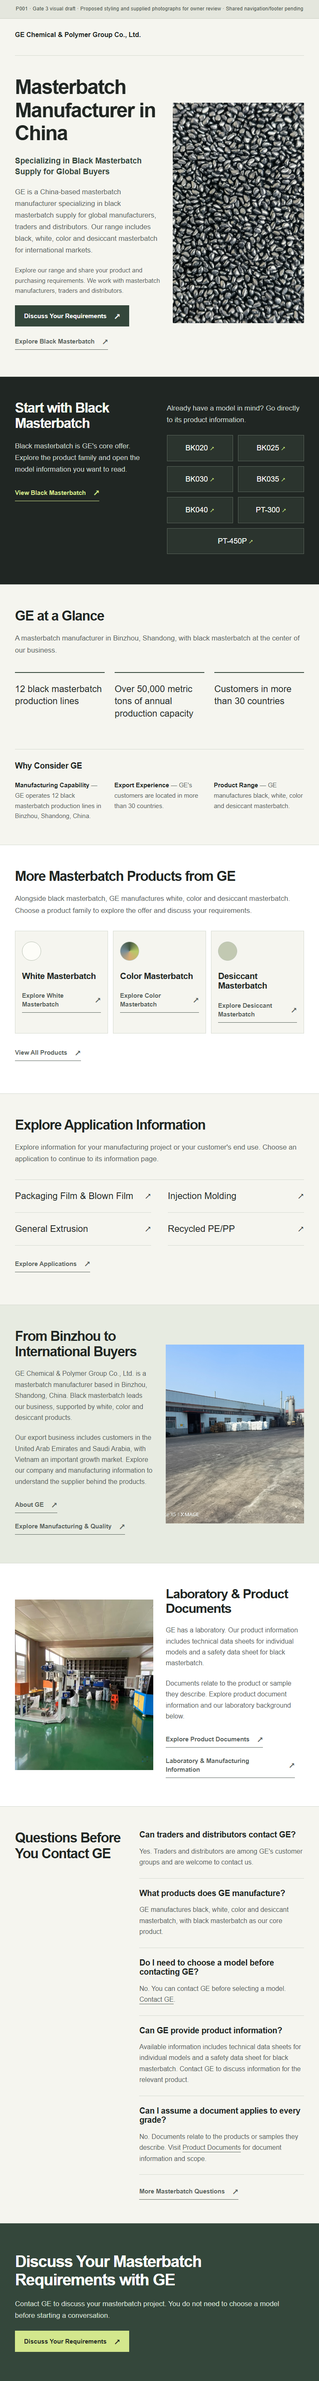
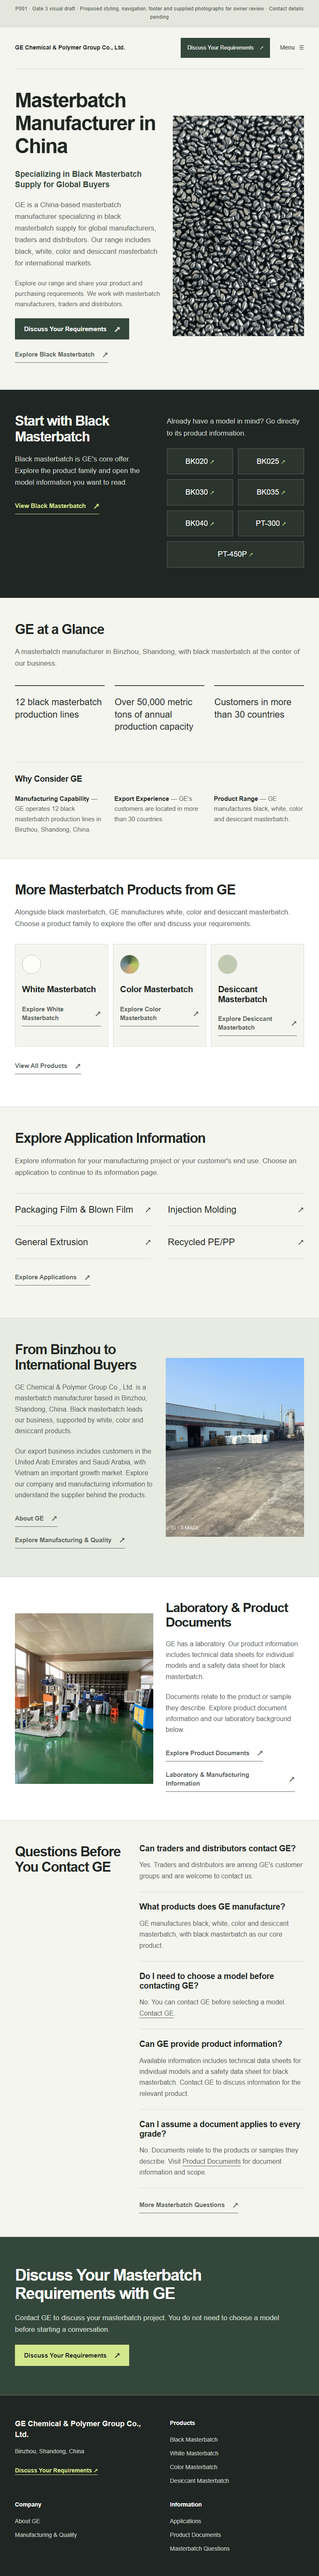
Complete P001 navigation and footer visual proposal

diff --git a/planning/visuals/P001/homepage-visual.html b/planning/visuals/P001/homepage-visual.html
@@ -2,8 +2,12 @@
 :root{--ink:#202623;--muted:#59645d;--paper:#f5f5ef;--line:#d5dad1;--accent:#d3e78d;--green:#34473b}*{box-sizing:border-box}body{margin:0;background:var(--paper);font-family:Arial,Helvetica,sans-serif;color:var(--ink);font-size:17px;line-height:1.65}a{color:inherit;text-underline-offset:5px}a:focus-visible{outline:3px solid #668821;outline-offset:5px}.draft-note{padding:12px 24px;background:#e4e6dd;color:#454f46;font-size:12px;letter-spacing:.025em;text-align:center;border-bottom:1px solid #ccd0c4}.container{max-width:1280px;margin:auto;padding:80px 64px}.module{border-bottom:1px solid var(--line)}h1,h2,h3,p,ul,figure{margin-top:0}h1,h2,h3{line-height:1.13;font-weight:600;letter-spacing:-.04em}h1{font-size:66px;margin-bottom:26px;max-width:660px}h2{font-size:40px;margin-bottom:22px;max-width:660px}h3{font-size:22px;margin-bottom:16px;letter-spacing:-.025em}p{margin-bottom:22px;color:var(--muted)}ul{padding:0;list-style:none}figure{margin:0;overflow:hidden;background:#d7ddd5}img{width:100%;height:100%;object-fit:cover;display:block}.section-intro{max-width:760px}p.action>a{display:inline-flex;align-items:center;gap:18px;font-size:15px;line-height:1.4;font-weight:600;text-decoration:none;border-bottom:1px solid currentColor;padding:9px 0}p.action>a:after{content:'↗';font-size:20px;line-height:1}.identity{padding-bottom:36px;border-bottom:1px solid var(--line);margin-bottom:48px}.identity p{margin:0;color:var(--ink);font-size:16px}.m1 .container{padding-top:26px;padding-bottom:64px}.hero-grid{display:grid;grid-template-columns:1.12fr .88fr;gap:56px;align-items:center}.hero-grid figure{height:540px;border-radius:2px}.hero-copy>p:nth-of-type(1){font-size:21px;line-height:1.35;color:var(--green);margin-bottom:22px}.hero-copy>p:nth-of-type(2){font-size:17px}.hero-copy>p:nth-of-type(3){font-size:15px;max-width:510px}.hero-copy>p:nth-of-type(4)>a,.m9 a{padding:15px 22px;background:var(--green);color:white;border:0}.hero-copy>p:nth-of-type(4){display:inline-block;margin:0 18px 0 0}.hero-copy>p:nth-of-type(5){display:inline-block;margin:16px 0 0}.m2{background:var(--ink);color:#fafbf6}.m2 p{color:#cbd4cc}.black-grid{display:grid;grid-template-columns:1fr 1fr;gap:80px}.black-intro p>a{color:var(--accent)}.model-entries{padding-top:6px}.model-entries ul{display:grid;grid-template-columns:repeat(3,1fr);gap:12px}.model-entries li a{display:block;padding:19px 12px;border:1px solid #5b665c;background:#2b342e;text-decoration:none;font-size:18px;line-height:1.25;text-align:center}.model-entries li:last-child{grid-column:span 2}.model-entries li a:after{content:' ↗';color:var(--accent);font-size:15px}.stats ul{display:grid;grid-template-columns:repeat(3,1fr);gap:28px;margin:38px 0 46px}.stats li{border-top:2px solid var(--green);padding:24px 16px 24px 0;font-size:25px;line-height:1.35}.stats strong{font-weight:500}.cooperation{border-top:1px solid var(--line);padding-top:28px}.cooperation h3{font-size:20px;margin-bottom:24px}.reasons{display:grid;grid-template-columns:repeat(3,1fr);gap:28px}.reasons p{font-size:15px;margin-bottom:0}.reasons strong{color:var(--ink)}.m4{background:#fff}.portfolio{display:grid;grid-template-columns:repeat(3,1fr);gap:20px;margin:34px 0 26px}.product-card{padding:30px 24px;border:1px solid var(--line);background:var(--paper);min-height:215px}.product-card p{margin:0}.product-card a{font-size:14px}.product-mark{width:46px;height:46px;border:1px solid #bac2b4;display:block;border-radius:50%;margin-bottom:25px;background:#fdfdf8}.tone1 .product-mark{background:conic-gradient(#435640,#b7c968,#d5aa74,#748c98,#435640)}.tone2 .product-mark{background:#c2c9b2}.m5 .section-intro{max-width:none}.m5 p{max-width:760px}.m5 ul{display:grid;grid-template-columns:repeat(2,1fr);border-top:1px solid var(--line);gap:0 40px;margin:35px 0 24px}.m5 li{border-bottom:1px solid var(--line)}.m5 li a{display:flex;justify-content:space-between;padding:24px 0;text-decoration:none;font-size:22px;line-height:1.35}.m5 li a:after{content:'↗';margin-left:18px}.m6{background:#e7ebe1}.company-grid,.documents-grid{display:grid;grid-template-columns:1fr 1fr;gap:64px;align-items:center}.company-grid figure{height:390px}.company-grid p,.documents-grid p{font-size:16px}.company-grid p:has(>a),.documents-grid p:has(>a){display:inline-block;margin-right:22px;margin-bottom:12px}.documents-grid figure{height:380px}.documents-grid h2{font-size:36px}.m7{background:#fff}.faq-grid{display:grid;grid-template-columns:.75fr 1.25fr;gap:70px}.faq-grid>h2{max-width:320px}.faq-item{padding:24px 0;border-bottom:1px solid var(--line)}.faq-item:first-child{padding-top:0}.faq-item h3{font-size:20px;letter-spacing:-.02em}.faq-item p{font-size:16px;margin:0}.faq-list>p{margin-top:20px;margin-bottom:0}.m9{background:var(--green);color:white;border:0}.m9 .container{padding-top:70px;padding-bottom:70px}.m9 h2{font-size:46px;max-width:720px}.m9 p{color:#d9e1d6;max-width:670px}.m9 a{background:var(--accent);color:var(--ink)}.m9 p:last-child{margin-bottom:0}
 @media(max-width:1000px){.container{padding:56px 36px}h1{font-size:49px}h2{font-size:33px}.hero-grid{gap:30px;grid-template-columns:1.05fr .95fr}.hero-grid figure{height:530px}.hero-copy>p:nth-of-type(1){font-size:19px}.black-grid{gap:35px}.model-entries ul{grid-template-columns:repeat(2,1fr)}.model-entries li:last-child{grid-column:span 2}.stats ul{gap:24px}.stats li{font-size:22px;padding-right:0}.reasons{gap:22px}.portfolio{gap:12px}.product-card{padding:25px 16px}.product-card h3{font-size:21px}.product-card a{font-size:13px}.company-grid,.documents-grid{gap:30px}.company-grid figure{height:430px}.documents-grid figure{height:410px}.documents-grid h2{font-size:31px}.faq-grid{gap:35px;grid-template-columns:.8fr 1.2fr}.m9 h2{font-size:39px}}
 @media(max-width:600px){body{font-size:16px}.draft-note{padding:10px 20px;font-size:11px;text-align:left}.container{padding:44px 24px}.identity{padding-bottom:24px;margin-bottom:30px}.identity p{font-size:13px;line-height:1.5}.m1 .container{padding-top:20px;padding-bottom:36px}.hero-grid,.black-grid,.company-grid,.documents-grid,.faq-grid{grid-template-columns:1fr;gap:28px}h1{font-size:43px;line-height:1.07;margin-bottom:24px;letter-spacing:-.045em}h2{font-size:31px;margin-bottom:20px}.hero-copy>p:nth-of-type(1){font-size:19px}.hero-copy>p:nth-of-type(2){font-size:16px}.hero-copy>p:nth-of-type(3){font-size:15px}.hero-copy>p:nth-of-type(4),.hero-copy>p:nth-of-type(5){display:block;margin:0 0 14px}.hero-copy>p:nth-of-type(4)>a{justify-content:space-between;width:100%}.hero-grid figure{height:240px;object-position:50% 50%}.black-grid{gap:20px}.model-entries p{font-size:15px}.model-entries li a{padding:18px 8px;font-size:17px}.stats ul{grid-template-columns:1fr;gap:0;margin:24px 0 30px}.stats li{font-size:24px;padding:19px 0;border-top:1px solid var(--line)}.stats li:first-child{border-top:2px solid var(--green)}.reasons{grid-template-columns:1fr;gap:18px}.portfolio{grid-template-columns:1fr;gap:14px;margin:25px 0}.product-card{min-height:0;padding:22px;display:grid;grid-template-columns:46px 1fr;column-gap:20px;align-items:start}.product-mark{grid-row:span 2;margin:0}.product-card h3{font-size:23px;margin-bottom:10px}.product-card a{font-size:14px}.m5 ul{grid-template-columns:1fr;margin-top:25px}.m5 li a{font-size:21px;padding:21px 0}.company-grid figure{height:245px}.documents-grid figure{height:245px}.documents-grid>figure{order:2}.documents-grid h2{font-size:31px}.company-grid p:has(>a),.documents-grid p:has(>a){display:block;margin:0 0 12px}.faq-grid>h2{max-width:none;margin-bottom:0}.faq-item h3{font-size:20px}.faq-item p{font-size:16px}.m9 .container{padding:46px 24px}.m9 h2{font-size:34px}.m9 a{justify-content:space-between;width:100%}}
-.m9 p.action>a{padding:15px 22px;background:var(--accent);color:var(--ink);border:0}</style></head><body><aside class="draft-note">P001 · Gate 3 visual draft · Proposed styling and supplied photographs for owner review · Shared navigation/footer pending</aside><main><section class="module m1 " data-module="1"><div class="container"><header class="identity"><p><strong>GE Chemical &amp; Polymer Group Co., Ltd.</strong></p>
-</header><div class="hero-grid"><div class="hero-copy"><h1>Masterbatch Manufacturer in China</h1>
+.m9 p.action>a{padding:15px 22px;background:var(--accent);color:var(--ink);border:0}
+.identity{display:flex;align-items:center;gap:24px;position:relative;padding-bottom:26px;margin-bottom:48px}.identity>p{flex:1;max-width:270px;font-size:14px;line-height:1.4}.desktop-nav{display:flex;align-items:center;gap:22px;margin-left:auto}.desktop-nav>a{font-size:14px;line-height:1.4;white-space:nowrap;text-decoration:none}.desktop-nav>a:first-child{font-weight:700}.header-inquiry{display:flex;align-items:center;justify-content:space-between;gap:14px;background:var(--green);color:white;text-decoration:none;font-size:13px;line-height:1.4;padding:14px 16px;min-height:48px;white-space:nowrap}.mobile-menu{display:none}.site-footer{background:var(--ink);color:#f4f6ef;border-top:1px solid #677465}.site-footer .container{padding-top:55px;padding-bottom:55px}.footer-grid{display:grid;grid-template-columns:1.3fr 1fr 1fr 1fr;gap:36px}.footer-identity>p:first-child{font-size:18px;line-height:1.45;color:#f4f6ef;margin-bottom:16px;max-width:270px}.footer-identity>p{font-size:14px;color:#cbd4cc;margin-bottom:20px}.footer-identity>a{font-size:14px;font-weight:600;color:var(--accent)}.footer-title{font-size:14px;color:#fff;font-weight:700;margin-bottom:18px}.footer-column nav{display:flex;flex-direction:column;align-items:flex-start;gap:12px}.footer-column a{font-size:14px;line-height:1.5;color:#cbd4cc;text-decoration:none}.footer-column a:hover,.desktop-nav a:hover{text-decoration:underline}
+@media(max-width:1100px){.desktop-nav{display:none}.desktop-inquiry{margin-left:auto}.mobile-menu{display:block}.mobile-menu summary{display:flex;align-items:center;gap:10px;list-style:none;cursor:pointer;padding:12px 0;font-size:14px;min-height:48px}.mobile-menu summary::-webkit-details-marker{display:none}.mobile-menu nav{position:absolute;left:0;right:0;top:calc(100% - 1px);z-index:1;background:var(--paper);border:1px solid var(--line);padding:18px 22px;box-shadow:0 10px 18px #20262315}.mobile-menu nav>a:not(.header-inquiry){display:block;text-decoration:none;font-size:17px;line-height:1.4;padding:14px 0;border-bottom:1px solid var(--line)}.mobile-menu nav>a:first-child{font-weight:700}.mobile-menu nav>.header-inquiry{margin-top:18px}.footer-grid{grid-template-columns:1fr 1fr;gap:35px 50px}.footer-identity>p:first-child{max-width:320px}}
+@media(max-width:600px){.identity{gap:16px;padding-bottom:22px;margin-bottom:30px}.identity>p{font-size:13px;max-width:260px}.desktop-inquiry{display:none}.mobile-menu{margin-left:auto;flex-shrink:0}.mobile-menu summary{font-size:13px}.mobile-menu summary span{font-size:20px}.site-footer .container{padding-top:36px;padding-bottom:36px}.footer-grid{grid-template-columns:1fr;gap:28px}.footer-identity>p:first-child{font-size:20px;max-width:320px}.footer-column nav{gap:10px}.footer-title{font-size:16px;margin-bottom:12px}.footer-column a{font-size:15px}.mobile-menu nav{padding:14px 20px}.m9 p.action>a{padding:15px 22px}}
+</style></head><body><aside class="draft-note">P001 · Gate 3 visual draft · Proposed styling, navigation, footer and supplied photographs for owner review · Contact details pending</aside><main><section class="module m1 " data-module="1"><div class="container"><header class="identity"><p><strong>GE Chemical &amp; Polymer Group Co., Ltd.</strong></p>
+<nav class="desktop-nav" aria-label="Primary navigation" data-shared-copy><a href="/products/black-masterbatch">Black Masterbatch</a><a href="/products">Products</a><a href="/applications">Applications</a><a href="/about">About GE</a></nav><div class="desktop-inquiry" data-shared-copy><a class="header-inquiry" href="/rfq">Discuss Your Requirements <span aria-hidden="true">↗</span></a></div><details class="mobile-menu" data-shared-copy><summary>Menu <span aria-hidden="true">☰</span></summary><nav aria-label="Mobile navigation"><a href="/products/black-masterbatch">Black Masterbatch</a><a href="/products">Products</a><a href="/applications">Applications</a><a href="/about">About GE</a><a class="header-inquiry" href="/rfq">Discuss Your Requirements <span aria-hidden="true">↗</span></a></nav></details></header><div class="hero-grid"><div class="hero-copy"><h1>Masterbatch Manufacturer in China</h1>
 <p><strong>Specializing in Black Masterbatch Supply for Global Buyers</strong></p>
 <p>GE is a China-based masterbatch manufacturer specializing in black masterbatch supply for global manufacturers, traders and distributors. Our range includes black, white, color and desiccant masterbatch for international markets.</p>
 <p>Explore our range and share your product and purchasing requirements. We work with masterbatch manufacturers, traders and distributors.</p>
@@ -76,4 +80,5 @@
 </div></div></div></section><section class="module m9 " data-module="9"><div class="container"><h2>Discuss Your Masterbatch Requirements with GE</h2>
 <p>Contact GE to discuss your masterbatch project. You do not need to choose a model before starting a conversation.</p>
 <p class="action"><a href="/rfq">Discuss Your Requirements</a></p>
-</div></section></main></body></html>
+</div></section></main><footer class="site-footer" data-shared-copy><div class="container"><div class="footer-grid"><div class="footer-identity"><p><strong>GE Chemical &amp; Polymer Group Co., Ltd.</strong></p>
+<p>Binzhou, Shandong, China</p><a href="/rfq">Discuss Your Requirements <span aria-hidden="true">↗</span></a></div><div class="footer-column"><p class="footer-title">Products</p><nav aria-label="Products"><a href="/products/black-masterbatch">Black Masterbatch</a><a href="/products/white-masterbatch">White Masterbatch</a><a href="/products/color-masterbatch">Color Masterbatch</a><a href="/products/desiccant-defoaming-masterbatch">Desiccant Masterbatch</a></nav></div><div class="footer-column"><p class="footer-title">Company</p><nav aria-label="Company"><a href="/about">About GE</a><a href="/manufacturing-quality">Manufacturing & Quality</a></nav></div><div class="footer-column"><p class="footer-title">Information</p><nav aria-label="Information"><a href="/applications">Applications</a><a href="/documents">Product Documents</a><a href="/faq">Masterbatch Questions</a></nav></div></div></div></footer></body></html>

diff --git a/planning/pages/P001.md b/planning/pages/P001.md
@@ -574,4 +574,15 @@ Contact GE to discuss your masterbatch project. You do not need to choose a mode
 - Proposed appearance: charcoal/green, off-white surfaces and a pale green inquiry accent; plain text company identity, prominent black-granule photograph, dark black-product/model section, capability facts, supporting product cards, application routes, company and equipment images, visible FAQ answers and closing inquiry. This is a reversible visual proposal; it does not establish approved brand colors, typography or a logo. Supporting-product circles are decorative category markers, not product photographs or material-color claims.
 - Media: supplied `planning/inputs/Cmp_Info/PIC&Vedio/微信图片_20260707174840_213_1.jpg` (black granules), `微信图片_20260707174840_214_1.jpg` (workshop buildings/yard), and `ge-chemical-masterbatch-workshop-equipment.jpg` (equipment room). Visually inspected before use; no visible alternative-company sign is included. These are provisionally usable under SITE_BRIEF/INPUT_REVIEW owner permission. Their specific grade, site attribution, capture date, equipment function and production usage rights are not independently verified; no grade, test-method or stock claim is attached to the photos. Images visibly branded to another company were excluded.
 - Verification: all three complete exports opened; all nine modules inspected separately at readable size for each width. Automated drawing checks confirmed exact public text and ordered link labels/destinations against the Page Spec, nine modules, one H1, eight H2s, five FAQ answers, all three images loaded and no horizontal overflow at 1440/768/390px. Closing inquiry button height is 51px. The spacing of that button and FAQ inline-link styling were corrected after inspection. These are static appearance/content checks, not WordPress responsive QA, link-availability checks or RFQ delivery tests.
-- Unresolved visual inputs: final brand identity/logo, approved shared header/navigation/footer, media attribution/rights and owner approval of the proposed appearance. Shared content is not invented; the review strip outside the public-copy region identifies the draft and those shared-content gaps. Existing READY dependencies for routes, documents and RFQ remain unchanged. Status remains PLANNED.
+- Unresolved visual inputs: final brand identity/logo, approved shared header/navigation/footer, media attribution/rights and owner approval of the proposed appearance. The shared navigation/footer proposal is now shown in the supplement below. The review strip outside the public-copy region labels it as a proposal and identifies the missing contact details. Existing READY dependencies for routes, documents and RFQ remain unchanged. Status remains PLANNED.
+
+### Shared navigation and footer visual supplement — 2026-10-02
+
+- Owner request after the GitHub save: “执行下一步”. Continue the homepage process by completing the missing shared visual components before WordPress implementation. This request does not approve newly proposed navigation labels, an invented logo or contact information; those are presented concretely here for owner consideration.
+- The nine-module buyer copy, SEO ownership, existing CTA meanings, facts and photographs are unchanged. The shared proposal is displayed separately from the confirmed body and excluded from the drawing's exact-body-copy comparison. No additional strategy/keyword research or AI buyer review was run.
+- Header proposal: the approved full company name as plain text identity; primary routes in order **Black Masterbatch** → `/products/black-masterbatch`, **Products** → `/products`, **Applications** → `/applications`, **About GE** → `/about`. A **Discuss Your Requirements** button retains `/rfq`. Black masterbatch is the first product route. These are shared-label proposals for existing page responsibilities, not approval of destination copy or availability.
+- Small-screen proposal: collapse primary navigation into **Menu**; show the same four routes and inquiry CTA in its expanded visual state. Tablet also retains the visible header inquiry button; phone retains the inquiry invitation in Hero and in the expanded menu. The drawing depicts closed and open states, without claiming implementation or runtime interaction verification.
+- Footer proposal: company identity and confirmed Binzhou/Shandong/China location; **Products** lists the four accepted families; **Company** links About GE and Manufacturing & Quality; **Information** links Applications, Product Documents and Masterbatch Questions. Retain `/rfq` as the inquiry route. Do not add a telephone number, email, postal address, customer logo, certification, local office or unsupported legal-policy copy.
+- Updated assets: existing `homepage-visual.html`, `homepage-1440.png`, `homepage-768.png`, `homepage-390.png` and `homepage-desktop-hero.png` under `../visuals/P001/`. Added readable footer excerpts `homepage-footer-1440.png`, `homepage-footer-768.png`, `homepage-footer-390.png` and the expanded-menu drawing `homepage-mobile-menu.png` in the same directory. These remain drawing assets; no separate site or process report was created.
+- Inspection: opened all three complete revised exports and the changed header/Hero/footer at readable size, plus the open phone menu. Exact confirmed body text and ordered body link labels/destinations still match this Page Spec at all three widths; nine body modules, one H1, eight main H2s, five FAQ answers and loaded images remain intact. Document widths are exactly 1440/768/390px without horizontal overflow; the expanded 390px menu also fits. Unchanged body modules reuse the prior readable inspection. Proposed routes are drawn from SITE_MAP, with actual availability still unverified.
+- Decision before implementation: owner confirmation of this concrete visual, including the added shared labels/layout; settle the inquiry contact route/receiver and the availability of linked pages in their applicable page work. `docs/WORKFLOW.md` requires those approved visual/action inputs for READY. No WordPress files, saved content, database, mail or deployment were changed in this supplement. Status remains PLANNED.
